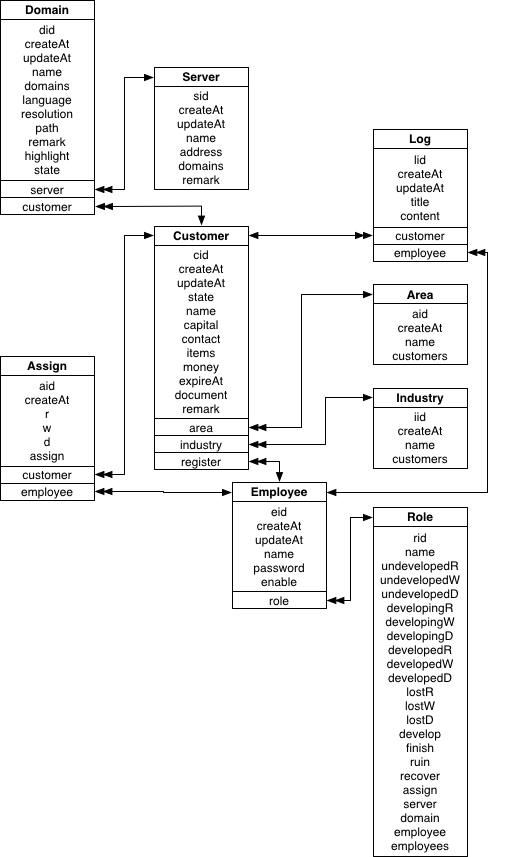
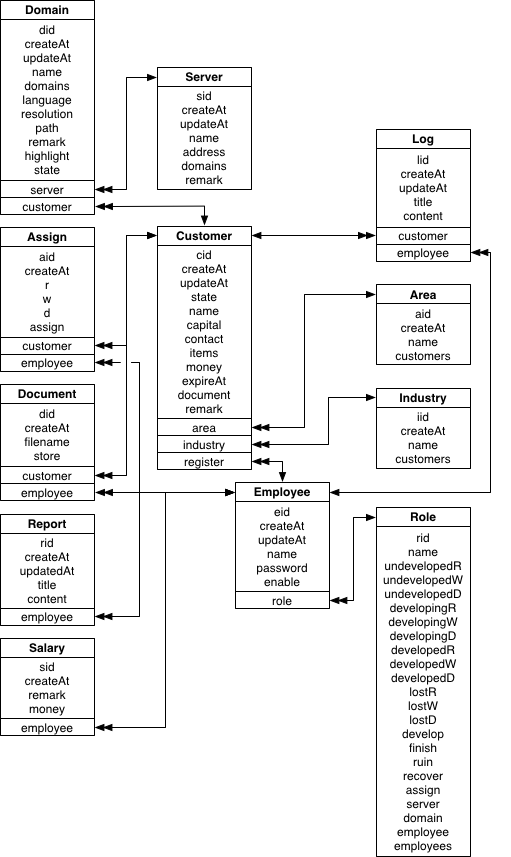
Add Salary entity related classes.

diff --git a/src/main/java/com/xwkj/customer/domain/Salary.java b/src/main/java/com/xwkj/customer/domain/Salary.java
@@ -1,0 +1,70 @@
+package com.xwkj.customer.domain;
+
+import org.hibernate.annotations.GenericGenerator;
+
+import javax.persistence.*;
+import java.io.Serializable;
+
+@Entity
+@Table(name = "customer_salary")
+public class Salary implements Serializable {
+
+    @Id
+    @GeneratedValue(generator = "uuid")
+    @GenericGenerator(name = "uuid", strategy = "uuid")
+    private String sid;
+
+    @Column(nullable = false)
+    private Long createAt;
+
+    @Column(nullable = false)
+    private String remark;
+
+    @Column(nullable = false)
+    private Integer money;
+
+    @ManyToOne
+    @JoinColumn(name = "eid", nullable = false)
+    private Employee employee;
+
+    public String getSid() {
+        return sid;
+    }
+
+    public void setSid(String sid) {
+        this.sid = sid;
+    }
+
+    public Long getCreateAt() {
+        return createAt;
+    }
+
+    public void setCreateAt(Long createAt) {
+        this.createAt = createAt;
+    }
+
+    public String getRemark() {
+        return remark;
+    }
+
+    public void setRemark(String remark) {
+        this.remark = remark;
+    }
+
+    public Integer getMoney() {
+        return money;
+    }
+
+    public void setMoney(Integer money) {
+        this.money = money;
+    }
+
+    public Employee getEmployee() {
+        return employee;
+    }
+
+    public void setEmployee(Employee employee) {
+        this.employee = employee;
+    }
+
+}

diff --git a/src/main/java/com/xwkj/customer/bean/SalaryBean.java b/src/main/java/com/xwkj/customer/bean/SalaryBean.java
@@ -1,0 +1,65 @@
+package com.xwkj.customer.bean;
+
+import com.xwkj.customer.domain.Salary;
+import org.directwebremoting.annotations.DataTransferObject;
+
+import java.util.Date;
+
+@DataTransferObject
+public class SalaryBean {
+
+    private String sid;
+    private Date createAt;
+    private String remark;
+    private int money;
+    private String eid;
+
+    public String getSid() {
+        return sid;
+    }
+
+    public void setSid(String sid) {
+        this.sid = sid;
+    }
+
+    public Date getCreateAt() {
+        return createAt;
+    }
+
+    public void setCreateAt(Date createAt) {
+        this.createAt = createAt;
+    }
+
+    public String getRemark() {
+        return remark;
+    }
+
+    public void setRemark(String remark) {
+        this.remark = remark;
+    }
+
+    public int getMoney() {
+        return money;
+    }
+
+    public void setMoney(int money) {
+        this.money = money;
+    }
+
+    public String getEid() {
+        return eid;
+    }
+
+    public void setEid(String eid) {
+        this.eid = eid;
+    }
+
+    public SalaryBean(Salary salary) {
+        this.sid = salary.getSid();
+        this.createAt = new Date(salary.getCreateAt());
+        this.remark = salary.getRemark();
+        this.money = salary.getMoney();
+        this.eid = salary.getEmployee().getEid();
+    }
+    
+}

diff --git a/src/main/java/com/xwkj/customer/dao/impl/SalaryDaoHibernate.java b/src/main/java/com/xwkj/customer/dao/impl/SalaryDaoHibernate.java
@@ -1,0 +1,16 @@
+package com.xwkj.customer.dao.impl;
+
+import com.xwkj.common.hibernate.BaseHibernateDaoSupport;
+import com.xwkj.customer.dao.SalaryDao;
+import com.xwkj.customer.domain.Salary;
+import org.springframework.stereotype.Repository;
+
+@Repository
+public class SalaryDaoHibernate extends BaseHibernateDaoSupport<Salary> implements SalaryDao {
+
+    public SalaryDaoHibernate() {
+        super();
+        setClass(Salary.class);
+    }
+
+}

diff --git a/src/main/java/com/xwkj/customer/service/impl/SalaryManagerImpl.java b/src/main/java/com/xwkj/customer/service/impl/SalaryManagerImpl.java
@@ -1,0 +1,12 @@
+package com.xwkj.customer.service.impl;
+
+import com.xwkj.customer.service.SalaryManager;
+import com.xwkj.customer.service.common.ManagerTemplate;
+import org.directwebremoting.annotations.RemoteProxy;
+import org.springframework.stereotype.Service;
+
+@Service
+@RemoteProxy(name = "SalaryManager")
+public class SalaryManagerImpl extends ManagerTemplate implements SalaryManager {
+
+}

diff --git a/src/main/java/com/xwkj/customer/service/common/ManagerTemplate.java b/src/main/java/com/xwkj/customer/service/common/ManagerTemplate.java
@@ -55,6 +55,9 @@ public class ManagerTemplate {
     @Autowired
     protected ReportDao reportDao;
 
+    @Autowired
+    protected SalaryDao salaryDao;
+
     public boolean checkAdminSession(HttpSession session) {
         return session.getAttribute(AdminManager.AdminFlag) != null;
     }

diff --git a/src/main/java/com/xwkj/customer/dao/SalaryDao.java b/src/main/java/com/xwkj/customer/dao/SalaryDao.java
@@ -1,0 +1,8 @@
+package com.xwkj.customer.dao;
+
+import com.xwkj.common.hibernate.BaseDao;
+import com.xwkj.customer.domain.Salary;
+
+public interface SalaryDao extends BaseDao<Salary> {
+
+}

diff --git a/src/main/java/com/xwkj/customer/service/SalaryManager.java b/src/main/java/com/xwkj/customer/service/SalaryManager.java
@@ -1,0 +1,5 @@
+package com.xwkj.customer.service;
+
+public interface SalaryManager {
+
+}
